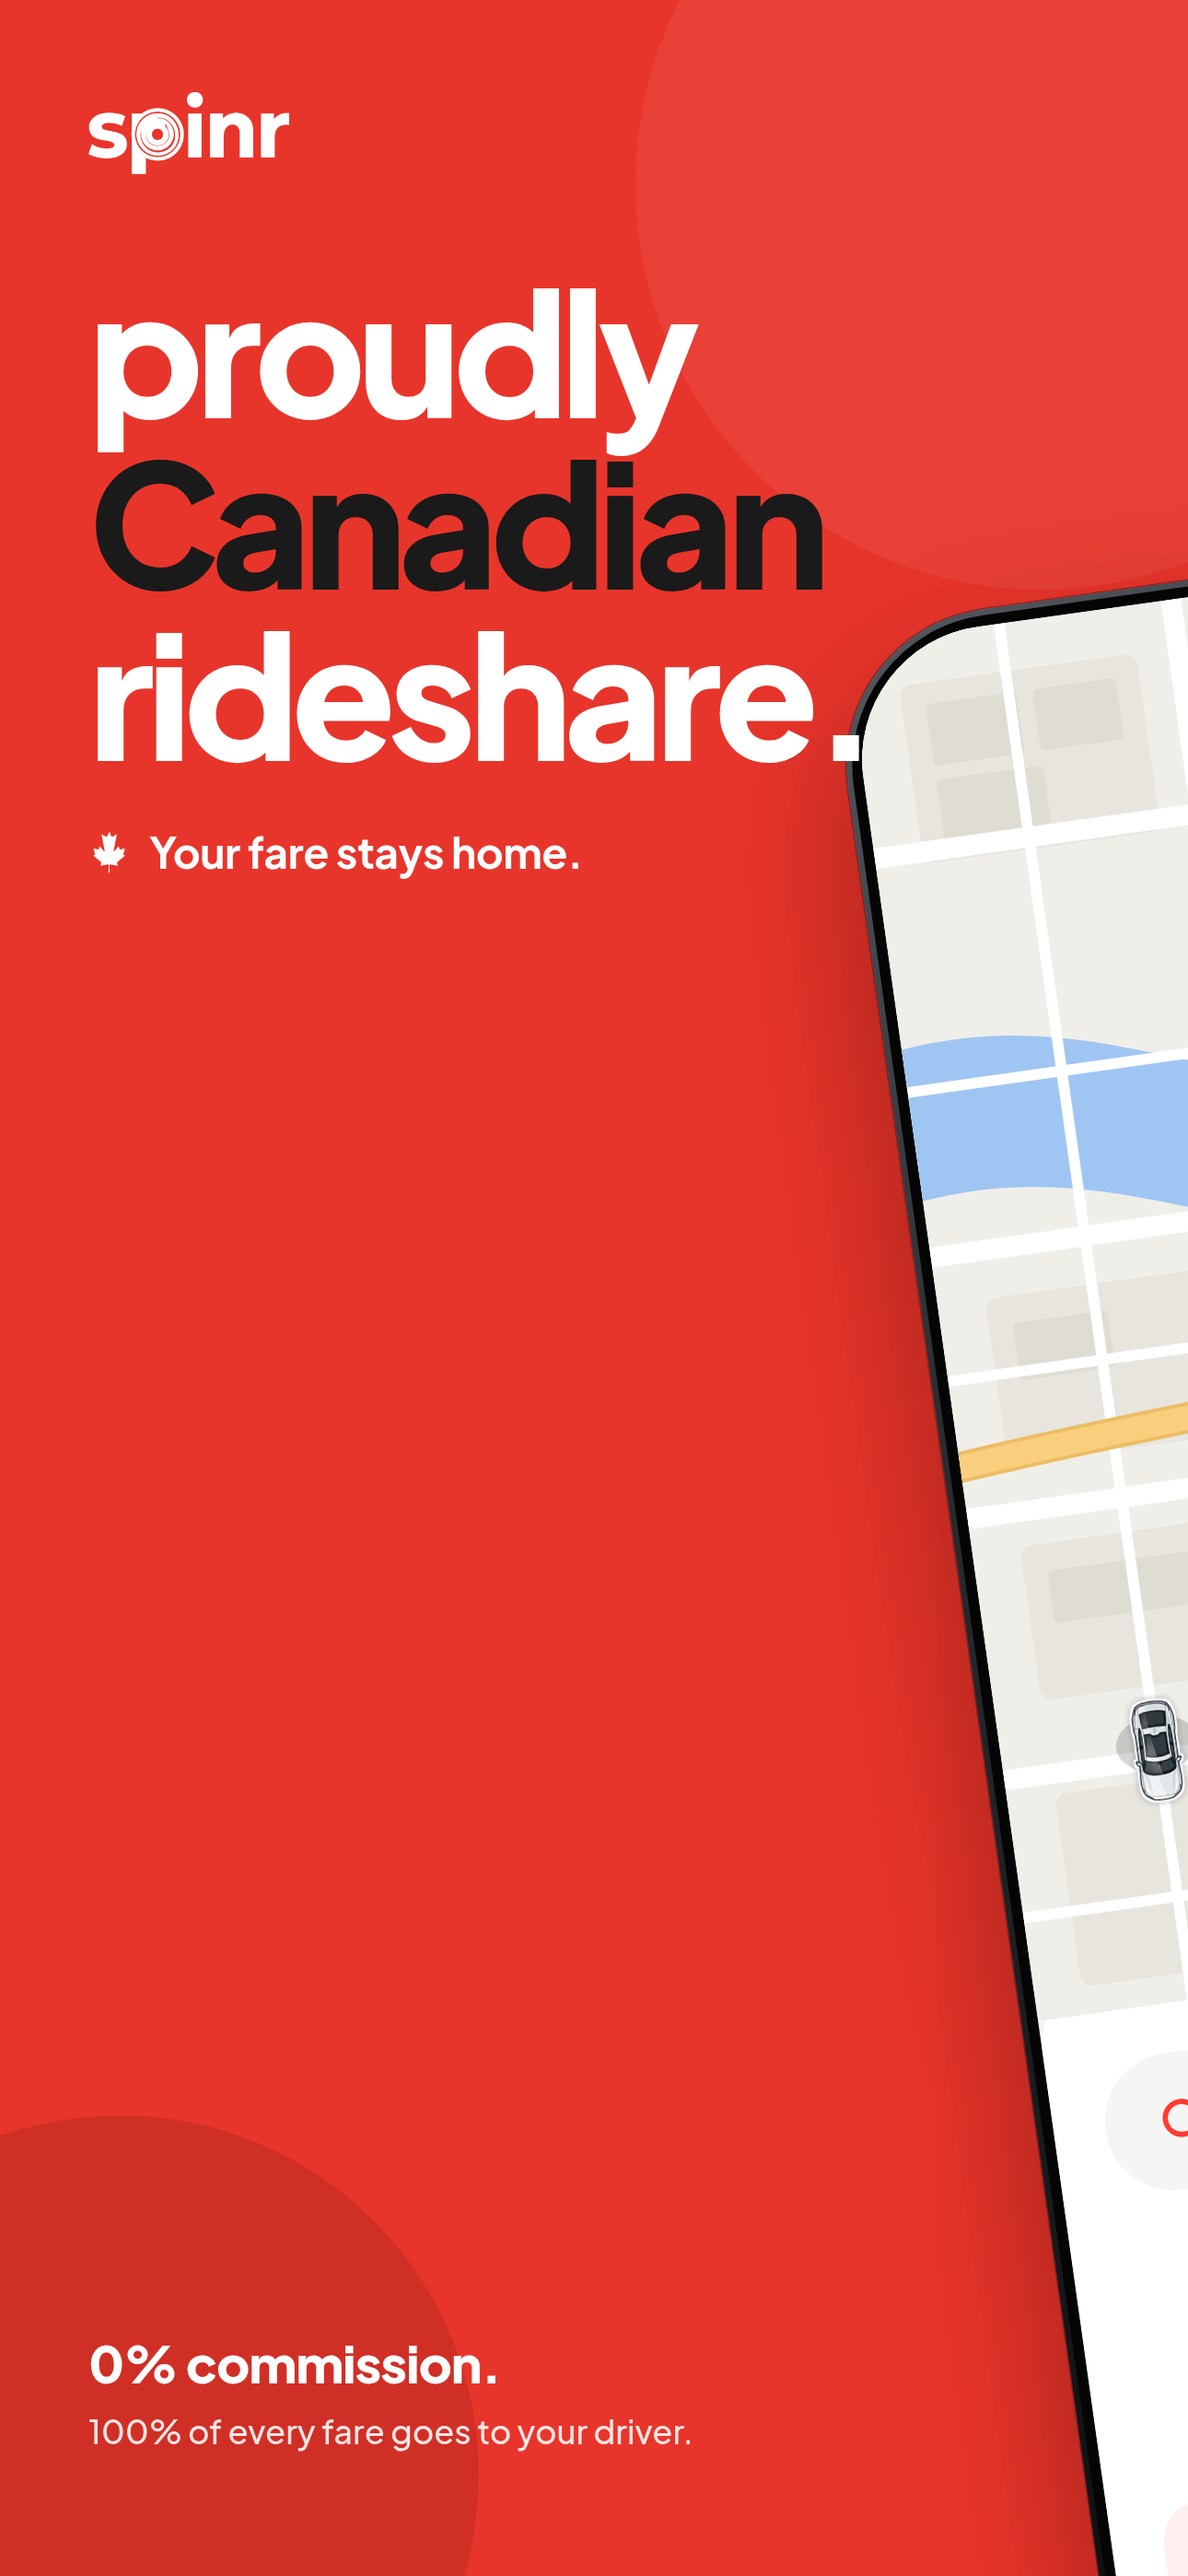
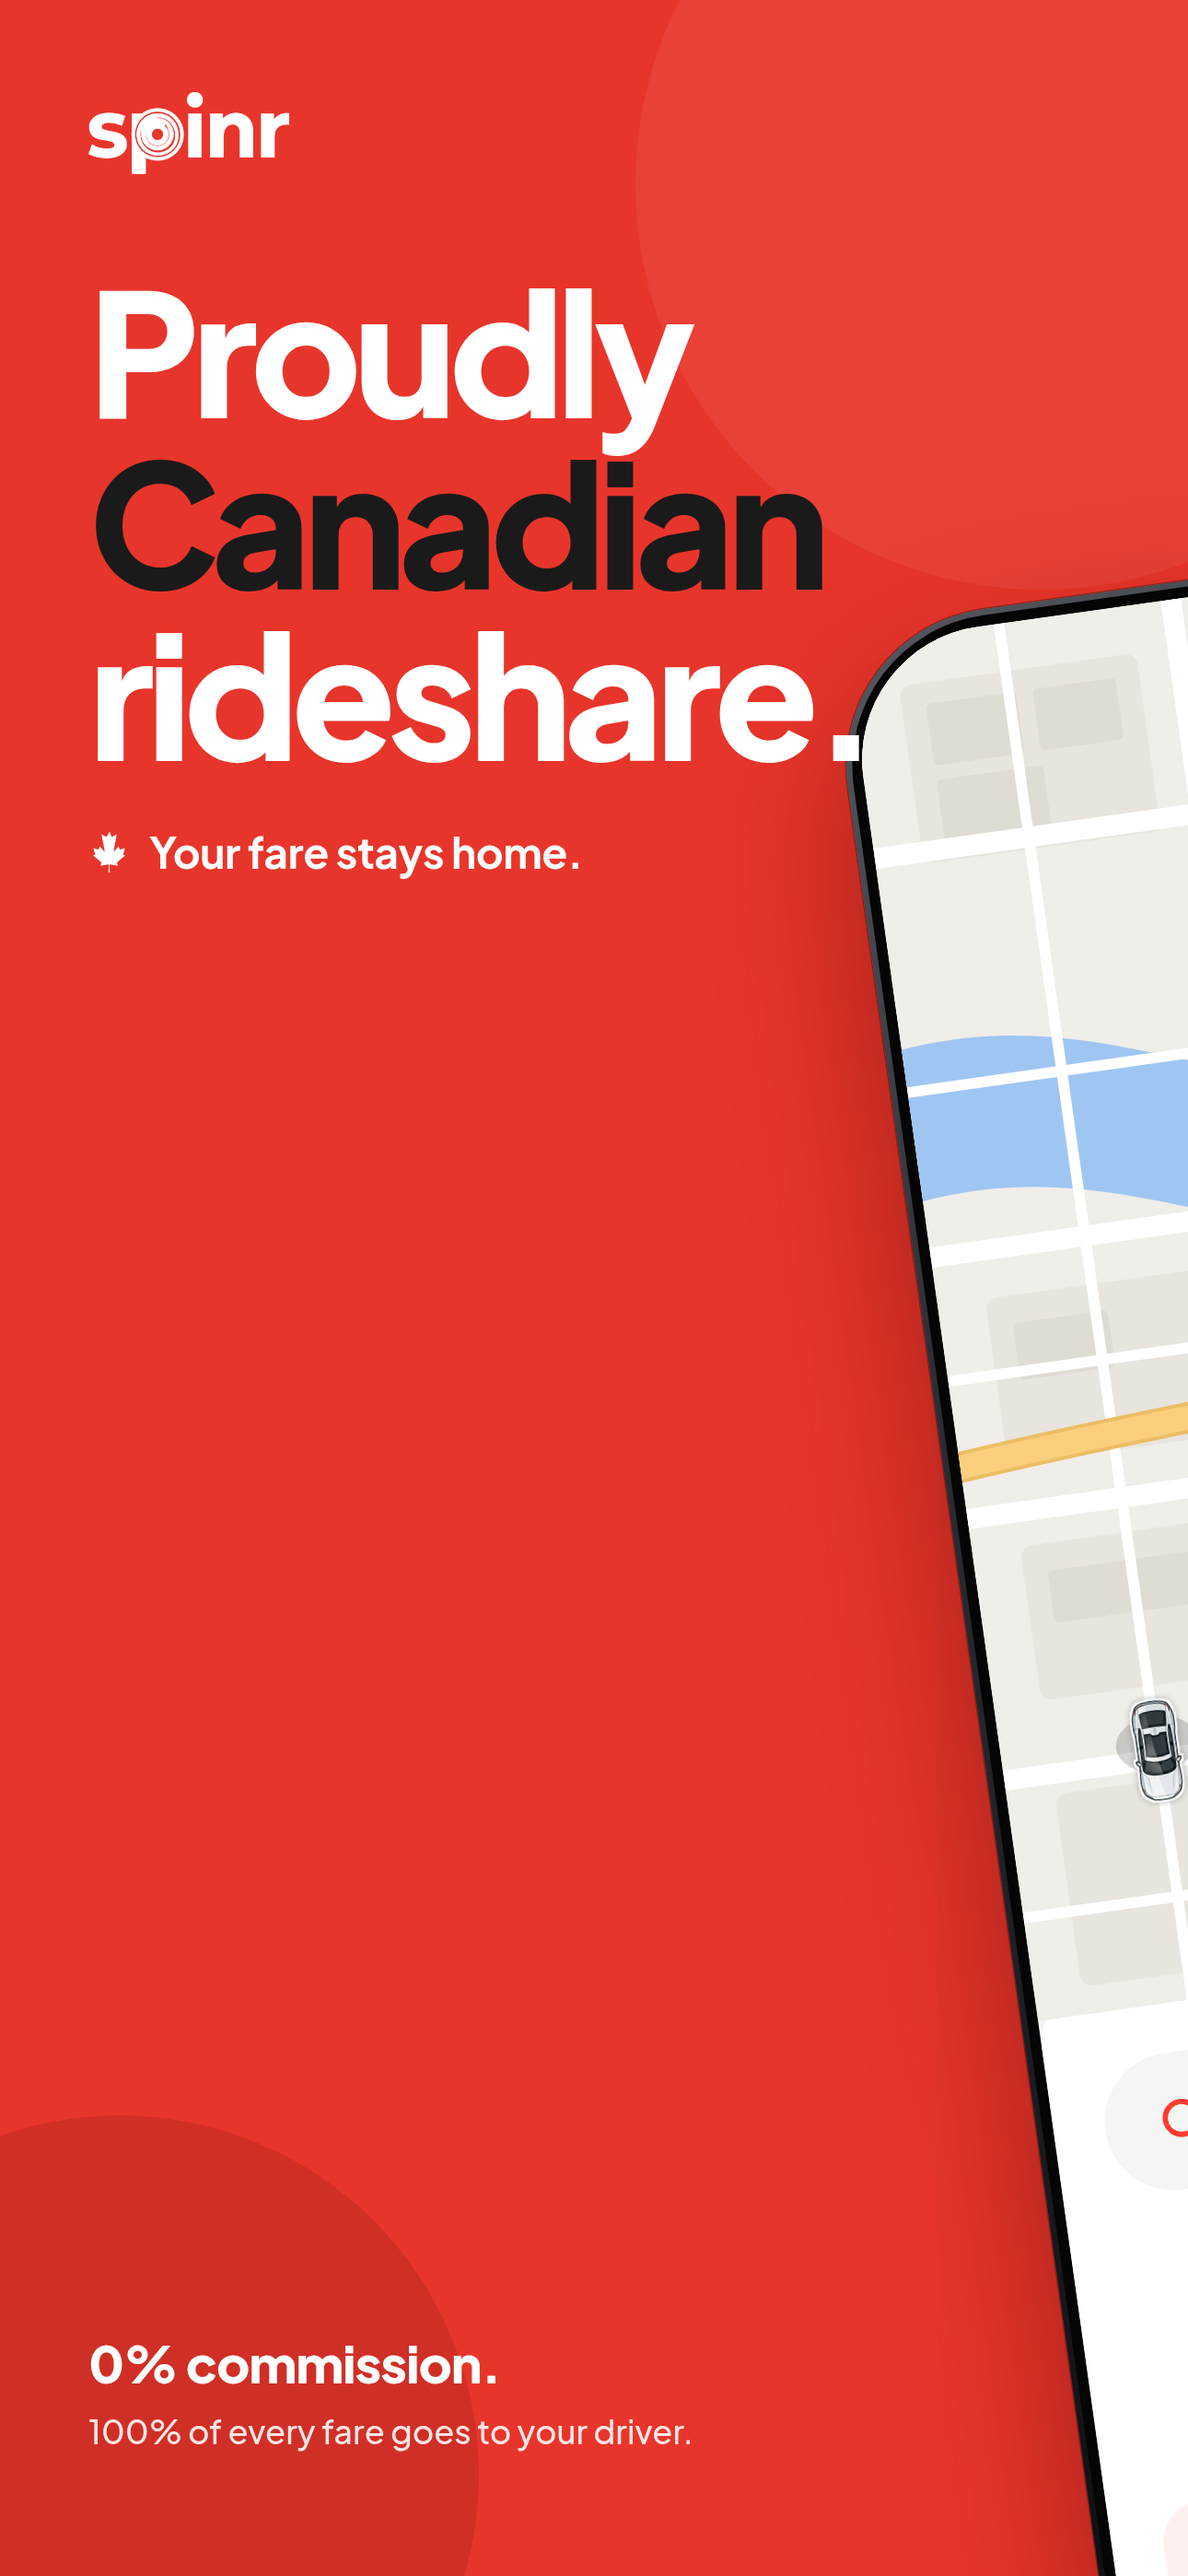
feat(design): v10 — sentence-case frame 1 headline
"proudly" -> "Proudly": capital P brings frame 1 in line with the set's
sentence-case headlines; "rideshare" stays lowercase (not a proper noun).

Co-developed with Claude Code (claude-sonnet-5)

Claude-Session: https://claude.ai/code/session_01RAfSoFR6nXebZH6nfqRpkU

Changed region(s): [[0.062, 0.0933, 0.5891, 0.1867]]

diff --git a/design/app-store-screenshots/Main.dc.html b/design/app-store-screenshots/Main.dc.html
@@ -115,7 +115,7 @@
   <div style="position: absolute; inset: 0; z-index: 4; padding: 100px 96px 132px; display: flex; flex-direction: column; pointer-events: none;">
     <img src="spinr-logo-white.png" alt="Spinr" style="width: 218px; height: 89px; object-fit: contain; align-self: flex-start;">
 
-    <h1 style="margin: 96px 0 0; font-size: 186px; line-height: 1.0; font-weight: 800; letter-spacing: -0.045em; color: #FFFFFF;">proudly<br><span style="color: #1A1A1A;">Canadian</span><br>rideshare.</h1>
+    <h1 style="margin: 96px 0 0; font-size: 186px; line-height: 1.0; font-weight: 800; letter-spacing: -0.045em; color: #FFFFFF;">Proudly<br><span style="color: #1A1A1A;">Canadian</span><br>rideshare.</h1>
 
     <div style="margin-top: 52px; display: flex; align-items: center; gap: 20px; max-width: 880px;">
       <svg width="46" height="46" viewBox="0 0 1000 1000" style="flex-shrink: 0;"><path d="M500 30 l-61 116 c-7 13 -19 12 -32 5 l-98 -51 74 383 c3 15 -8 21 -19 9 l-95 -110 -26 66 c-3 8 -12 7 -19 6 l-105 -22 36 131 c3 11 5 20 -6 24 l-38 13 181 148 c9 9 13 24 9 38 l-16 54 176 -30 c9 -2 22 2 22 12 l-8 179 h30 l-8 -179 c0 -10 13 -14 22 -12 l176 30 -16 -54 c-4 -14 0 -29 9 -38 l181 -148 -38 -13 c-11 -4 -9 -13 -6 -24 l36 -131 -105 22 c-7 1 -16 2 -19 -6 l-26 -66 -95 110 c-11 12 -22 6 -19 -9 l74 -383 -98 51 c-13 7 -25 8 -32 -5 z" fill="#FFFFFF"/></svg>

diff --git a/design/app-store-screenshots/_build.py b/design/app-store-screenshots/_build.py
@@ -198,7 +198,7 @@ frame1_content = iphone(home_screen, 1056, 596) + '''
   <div style="position: absolute; inset: 0; z-index: 4; padding: 100px 96px 132px; display: flex; flex-direction: column; pointer-events: none;">
     <img src="spinr-logo-white.png" alt="Spinr" style="width: 218px; height: 89px; object-fit: contain; align-self: flex-start;">
 
-    <h1 style="margin: 96px 0 0; font-size: 186px; line-height: 1.0; font-weight: 800; letter-spacing: -0.045em; color: #FFFFFF;">proudly<br><span style="color: #1A1A1A;">Canadian</span><br>rideshare.</h1>
+    <h1 style="margin: 96px 0 0; font-size: 186px; line-height: 1.0; font-weight: 800; letter-spacing: -0.045em; color: #FFFFFF;">Proudly<br><span style="color: #1A1A1A;">Canadian</span><br>rideshare.</h1>
 
     <div style="margin-top: 52px; display: flex; align-items: center; gap: 20px; max-width: 880px;">
       <svg width="46" height="46" viewBox="0 0 1000 1000" style="flex-shrink: 0;"><path d="{LEAF}" fill="#FFFFFF"/></svg>
